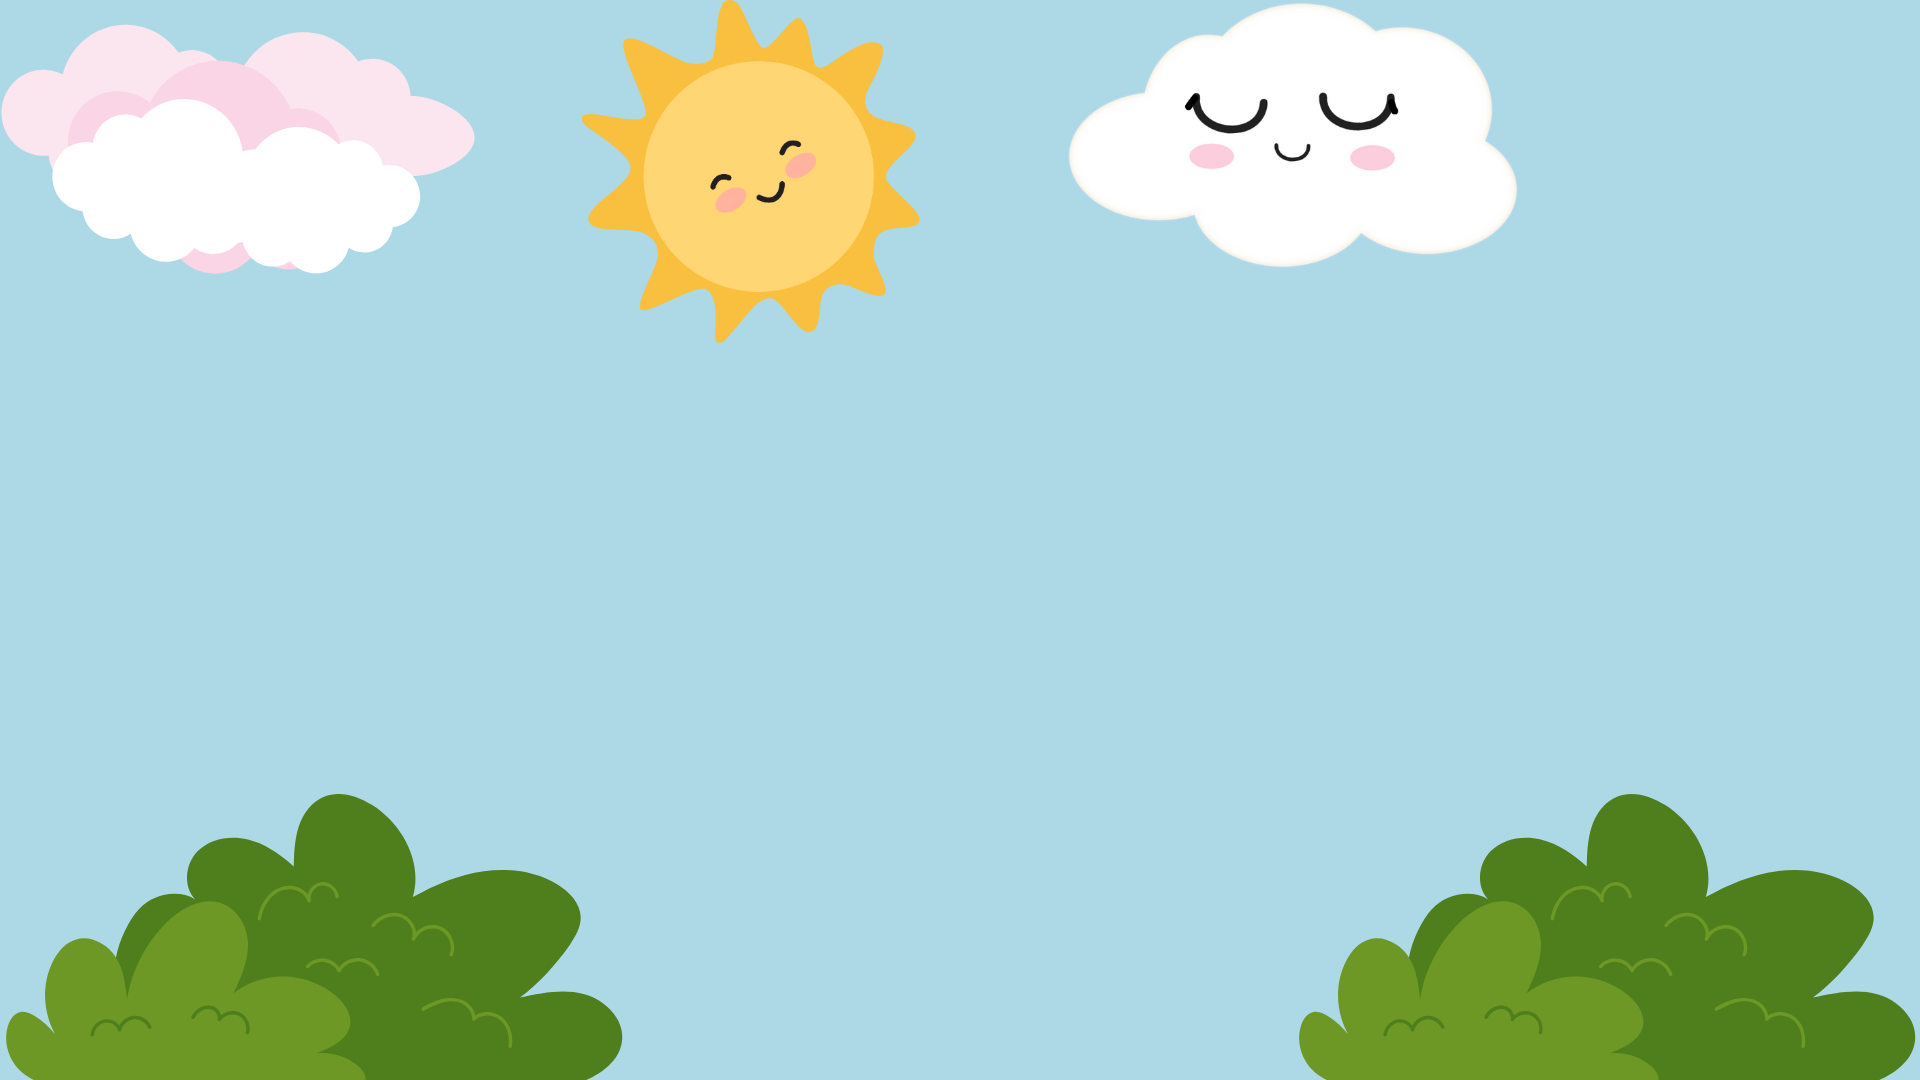
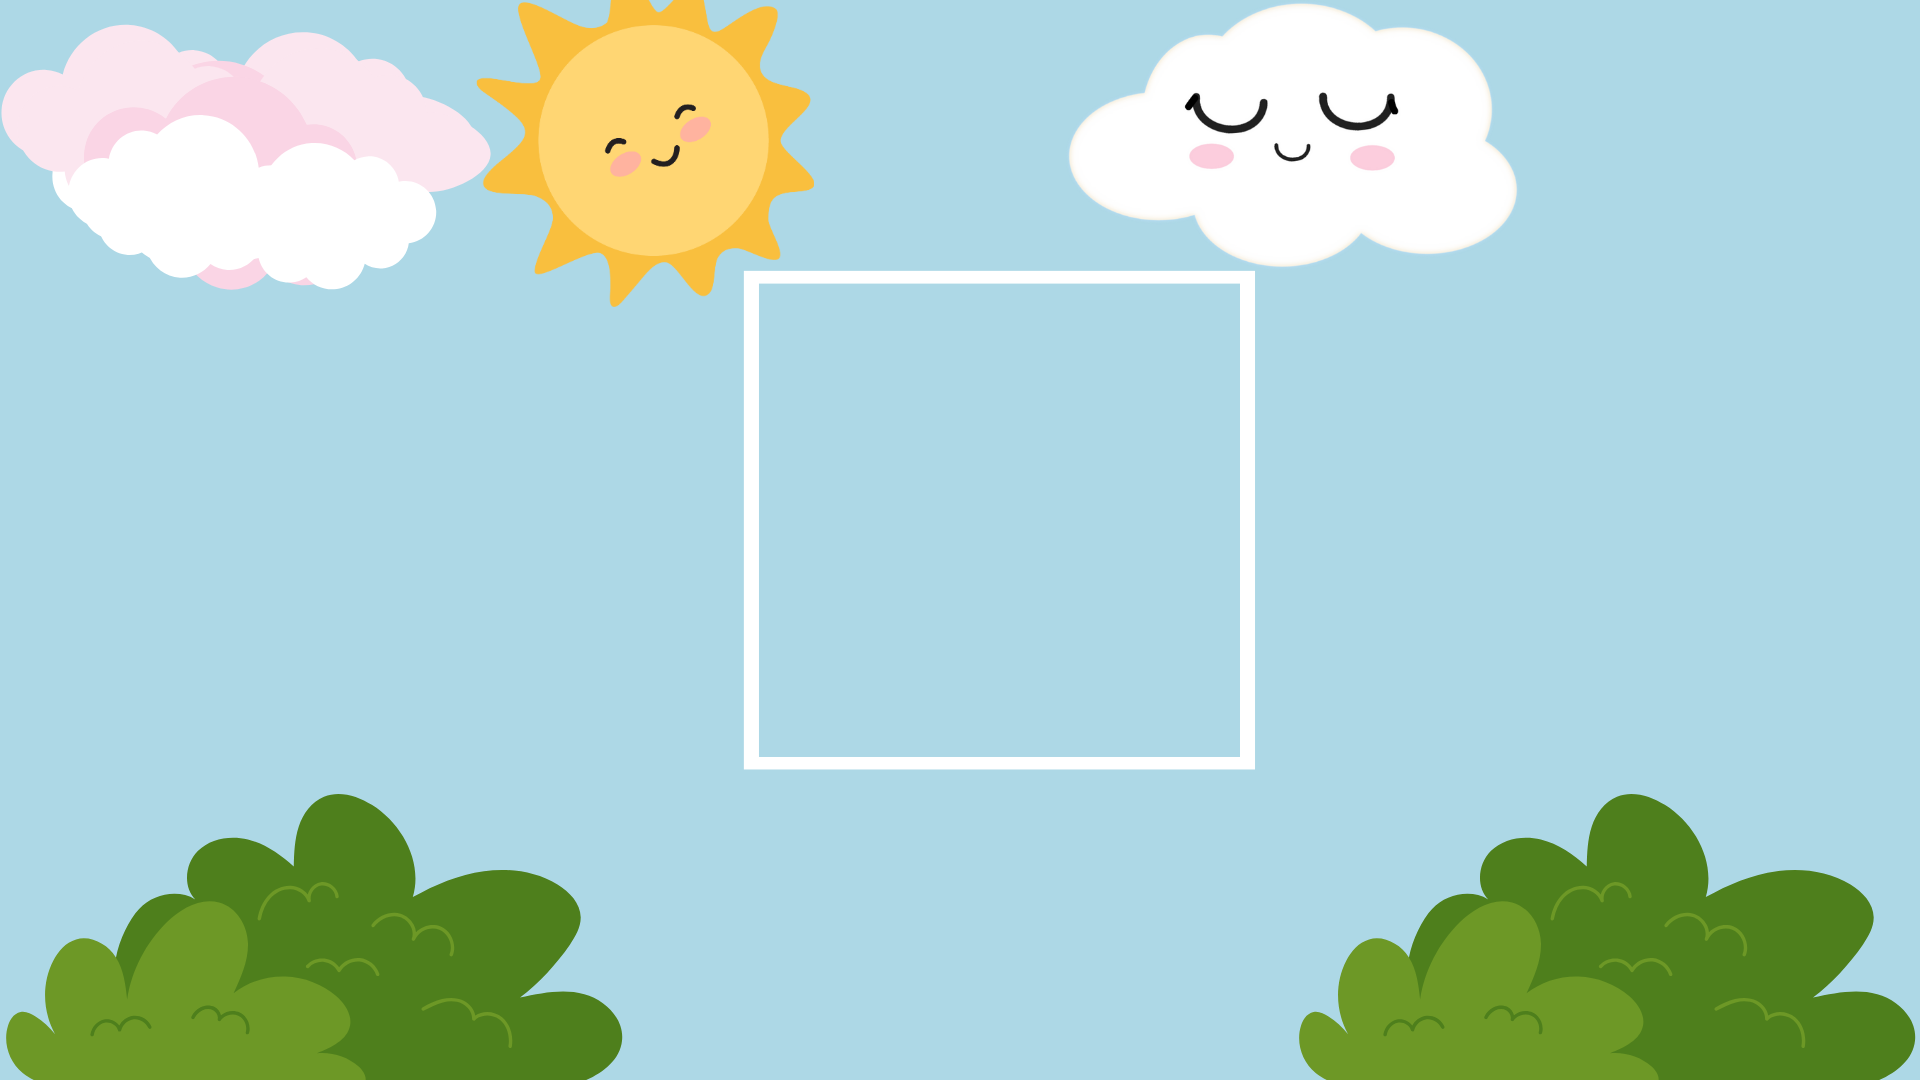
mudança nas imagens e afins

Changed region(s): [[0.0625, 0.0, 0.6562, 0.7333], [0.0, 0.0917, 0.125, 0.1528]]

diff --git a/script.js b/script.js
@@ -5,7 +5,8 @@ document.addEventListener('DOMContentLoaded', function () {
     botaoSortear.addEventListener('click', realizarSorteio);
 
 function realizarSorteio() {
-    let lista = ['banana', 'cafe', 'bolinho', 'suco', 'chocolate','laranja','ovo','pirulito'];
+    let lista = ['banana', 'cafe', 'chocolate','laranja','carne','ovo','pirulito','porco','cachorro','gato',
+'leao','vaca','macaco','cavalo','passaro','girafa','peixe'];
     const indiceAleatorio = Math.floor(Math.random() * lista.length);
     const palavraSorteada = lista[indiceAleatorio];
     let inputPalavra = document.getElementById("inputPalavra");

diff --git a/styles.css b/styles.css
@@ -30,9 +30,9 @@ html, body {
 }
 
 .image{
-    width: 50%;
-    margin-top: 2%;
-    margin-left: 25%;
+    width: 40%;
+    margin-top: 14%;
+    margin-left: 34%;
 }
 
 #inputPalavra {
